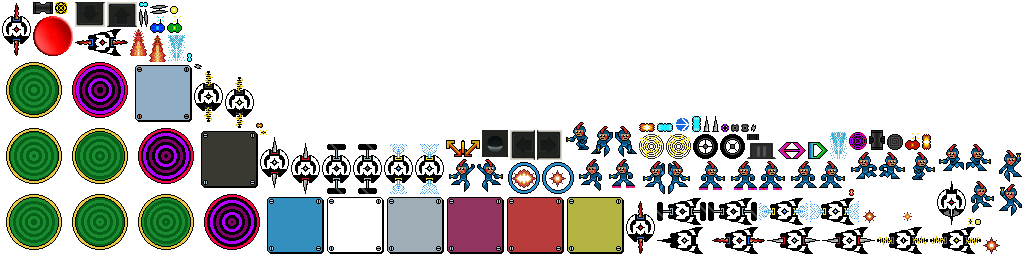
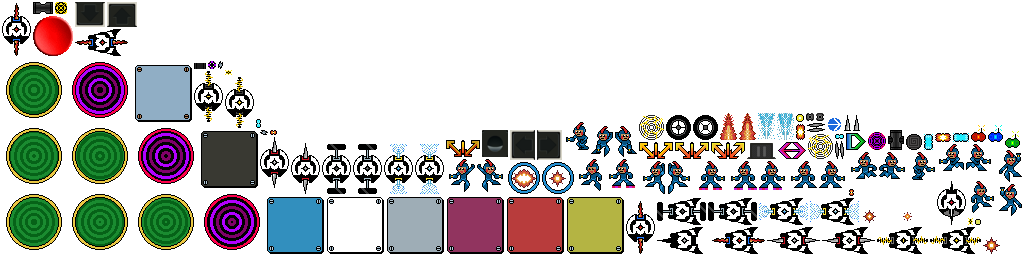
updated ricochet sprite

Changed region(s): [[0.625, 0.4375, 1.0, 0.625], [0.125, 0.0, 0.2188, 0.2812], [0.25, 0.4688, 0.2812, 0.5312]]

diff --git a/core/src/com/udacity/gamedev/gigagal/util/Constants.java b/core/src/com/udacity/gamedev/gigagal/util/Constants.java
@@ -316,7 +316,7 @@ public final class Constants {
     public static final String BLAST_ICON = "icon-blast";
     public static final String JUMP_ICON = "icon-jump";
     public static final String HOVER_ICON = "icon-hover";
-    public static final String RICOCHET_ICON = "icon-ricochet";
+    public static final String RICOCHET_ICON = "icon-ricochet3";
     public static final String DASH_ICON = "icon-dash";
 
     // Onscreen Controls

diff --git a/core/src/com/udacity/gamedev/gigagal/entities/Swoopa.java b/core/src/com/udacity/gamedev/gigagal/entities/Swoopa.java
@@ -87,5 +87,5 @@ public class Swoopa extends Destructible {
     public Vector2 getMountKnockback() { return Constants.SWOOPA_KNOCKBACK; }
     public final Class getSubclass() { return this.getClass(); }
     public final void setHealth( int health ) { this.health = health; }
-    public Enums.WeaponType getType() { return Enums.WeaponType.NATIVE; }
+    public Enums.WeaponType getType() { return null; }
 }

diff --git a/core/src/com/udacity/gamedev/gigagal/entities/Zoomba.java b/core/src/com/udacity/gamedev/gigagal/entities/Zoomba.java
@@ -78,5 +78,5 @@ public class Zoomba extends Destructible {
     public Vector2 getMountKnockback() { return Constants.ZOOMBA_KNOCKBACK; }
     public final Class getSubclass() { return this.getClass(); }
     public final void setHealth( int health ) { this.health = health; }
-    public Enums.WeaponType getType() { return Enums.WeaponType.NATIVE; }
+    public Enums.WeaponType getType() { return null; }
 }
